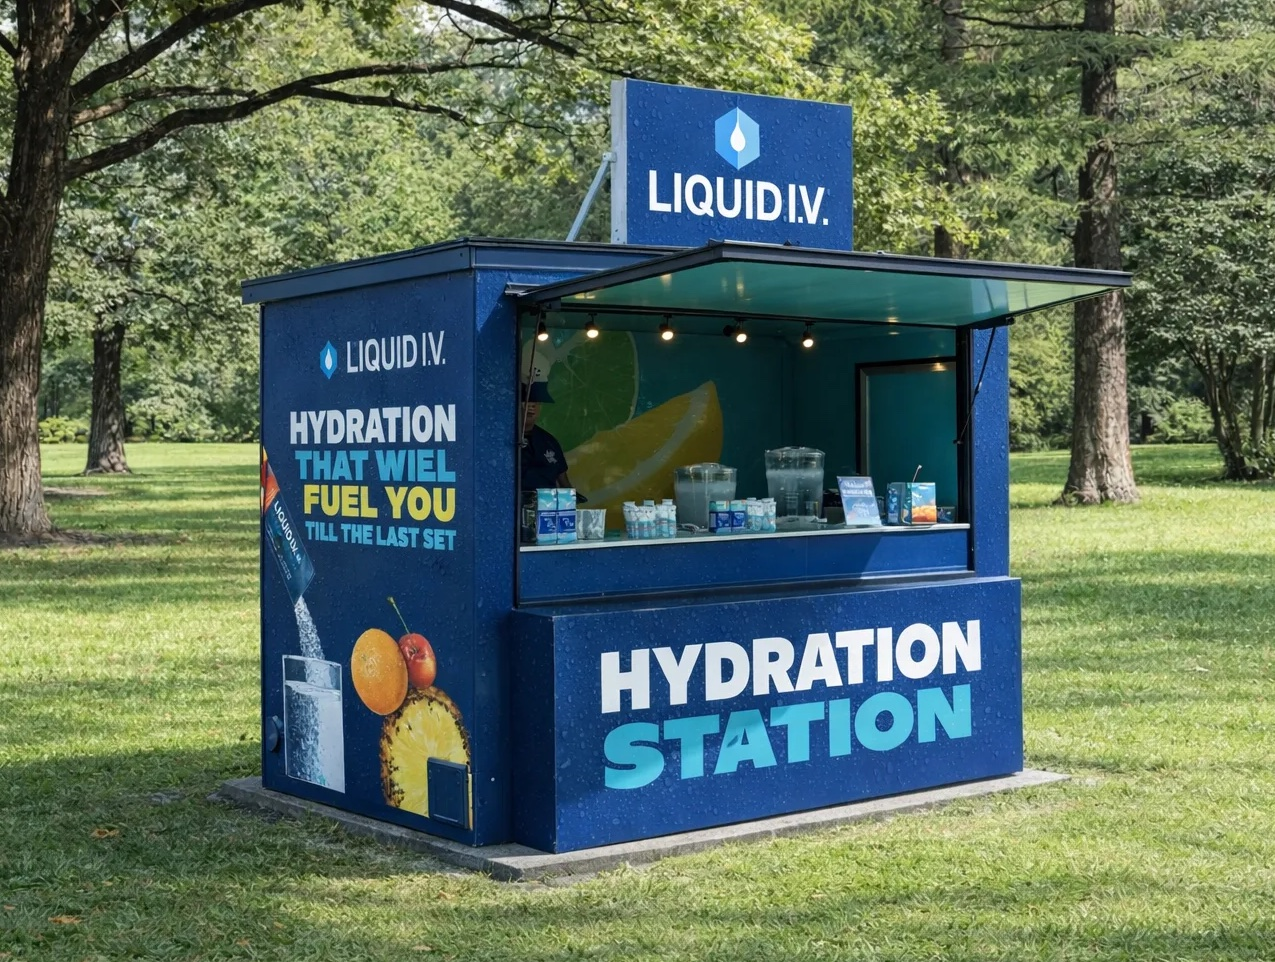
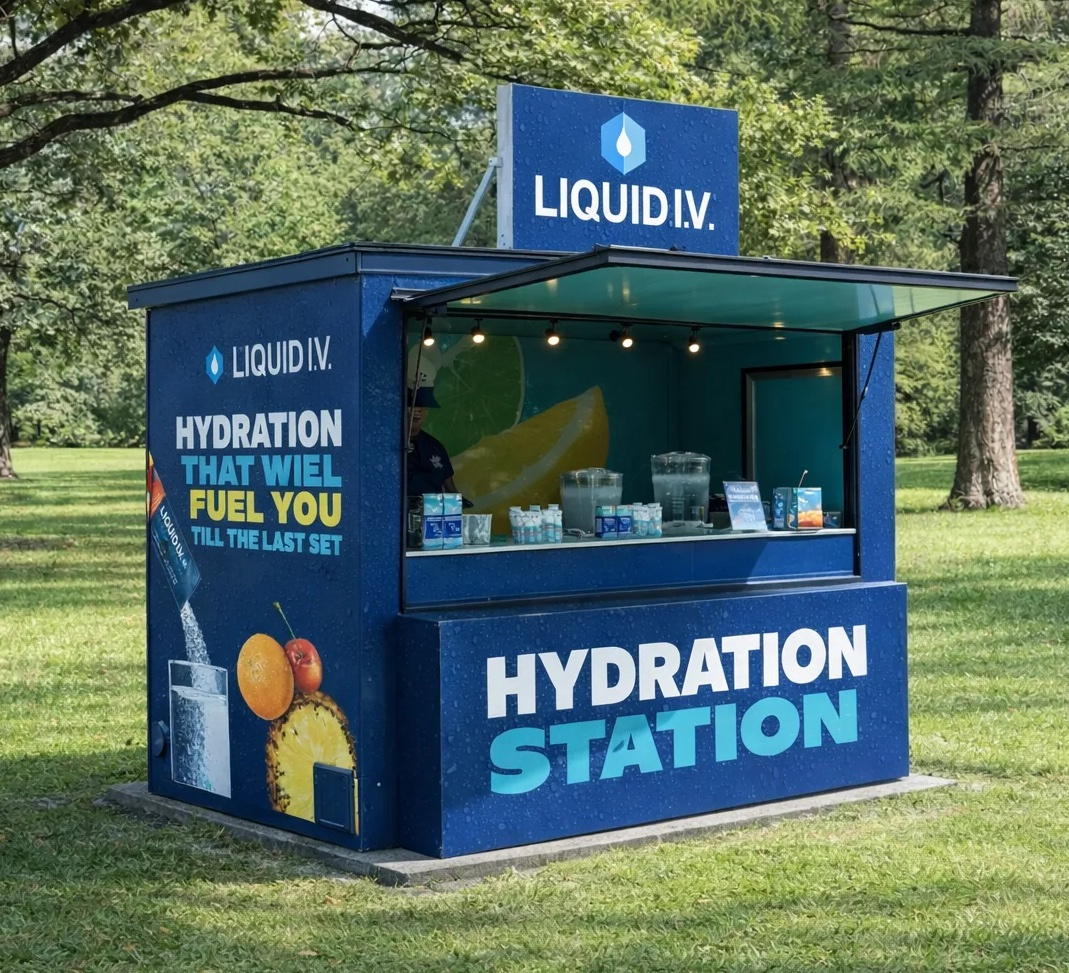
Agency + Client Work: slightly larger tiles, closer crops on the Powerade setup and Liquid I.V. kiosk

diff --git a/agency-client-work.html b/agency-client-work.html
@@ -337,7 +337,7 @@
   }
 
   /* ===== Agency + Client Work: floating tiles ===== */
-  .field { position: relative; transition: height .6s cubic-bezier(.2, .7, .2, 1); height: 175.4vw; margin: 4vw 0 8vw; }
+  .field { position: relative; transition: height .6s cubic-bezier(.2, .7, .2, 1); height: 156.9vw; margin: 4vw 0 8vw; }
   .ft { position: absolute; left: var(--l); top: var(--t); width: var(--w); z-index: 1;
         animation: drift var(--dur) ease-in-out var(--del) infinite alternate; transition: opacity .5s ease, transform .6s cubic-bezier(.2, .7, .2, 1); }
   .ft:hover { z-index: 5; animation-play-state: paused; }
@@ -389,55 +389,55 @@
 
   <!-- Floating tiles: positions and sizes are set in TILES in _build/build.rb -->
   <div class="field">
-<div class="ft" style="--l:5%; --t:4vw; --w:30vw; --h:18.39vw; --ar:1.631; --tone:#c4c4c4; --ox:0%; --cx:0; --cy:1; --dur:6s; --del:-0s; --dx:-8px; --dy:12px">
+<div class="ft" style="--l:4%; --t:4vw; --w:35vw; --h:23.96vw; --ar:1.461; --tone:#c4c4c4; --ox:0%; --cx:0; --cy:1; --dur:6s; --del:-0s; --dx:-8px; --dy:12px">
   <div class="pic" style="background-image:url('images/agency/powerade-tent.jpg')" role="img" aria-label="Powerade Power Water"></div>
   <div class="cap"><b>Powerade Power Water</b><p>Lorem ipsum dolor sit amet, consectetur adipiscing elit. Sed do eiusmod tempor incididunt ut labore et dolore magna aliqua.</p></div>
 </div>
-<div class="ft r" style="--l:64%; --t:2vw; --w:15vw; --h:14.59vw; --ar:1.028; --tone:#bdbdbd; --ox:50%; --cx:-.225; --cy:1; --dur:8s; --del:-3s; --dx:6px; --dy:-10px">
+<div class="ft r" style="--l:58%; --t:0vw; --w:21vw; --h:20.43vw; --ar:1.028; --tone:#bdbdbd; --ox:50%; --cx:-.225; --cy:1; --dur:8s; --del:-3s; --dx:6px; --dy:-10px">
   <div class="pic" style="background-image:url('images/agency/powerade-sign.jpg')" role="img" aria-label="Powerade Power Water"></div>
   <div class="cap"><b>Powerade Power Water</b><p>Lorem ipsum dolor sit amet, consectetur adipiscing elit. Sed do eiusmod tempor incididunt ut labore et dolore magna aliqua.</p></div>
 </div>
-<div class="ft" style="--l:41%; --t:24vw; --w:13vw; --h:19.50vw; --ar:0.667; --tone:#c9c9c9; --ox:50%; --cx:-.225; --cy:1; --dur:10s; --del:-6s; --dx:-5px; --dy:16px">
+<div class="ft" style="--l:40%; --t:34vw; --w:15vw; --h:22.50vw; --ar:0.667; --tone:#c9c9c9; --ox:50%; --cx:-.225; --cy:1; --dur:10s; --del:-6s; --dx:-5px; --dy:16px">
   <div class="pic" style="background-image:url('images/agency/welchs-grape.jpg')" role="img" aria-label="Welch's Real PB&amp;Js"></div>
   <div class="cap"><b>Welch's Real PB&amp;Js</b><p>Lorem ipsum dolor sit amet, consectetur adipiscing elit. Sed do eiusmod tempor incididunt ut labore et dolore magna aliqua.</p></div>
 </div>
-<div class="ft r" style="--l:73%; --t:34vw; --w:13vw; --h:19.50vw; --ar:0.667; --tone:#b8b8b8; --ox:50%; --cx:-.225; --cy:1; --dur:7s; --del:-2s; --dx:9px; --dy:-14px">
+<div class="ft r" style="--l:74%; --t:30vw; --w:15vw; --h:22.50vw; --ar:0.667; --tone:#b8b8b8; --ox:100%; --cx:-.45; --cy:1; --dur:7s; --del:-2s; --dx:9px; --dy:-14px">
   <div class="pic" style="background-image:url('images/agency/welchs-mixed-fruit.jpg')" role="img" aria-label="Welch's Real PB&amp;Js"></div>
   <div class="cap"><b>Welch's Real PB&amp;Js</b><p>Lorem ipsum dolor sit amet, consectetur adipiscing elit. Sed do eiusmod tempor incididunt ut labore et dolore magna aliqua.</p></div>
 </div>
-<div class="ft" style="--l:9%; --t:44vw; --w:13vw; --h:19.50vw; --ar:0.667; --tone:#c4c4c4; --ox:0%; --cx:0; --cy:1; --dur:9s; --del:-5s; --dx:-8px; --dy:12px">
+<div class="ft" style="--l:9%; --t:40vw; --w:15vw; --h:22.50vw; --ar:0.667; --tone:#c4c4c4; --ox:0%; --cx:0; --cy:1; --dur:9s; --del:-5s; --dx:-8px; --dy:12px">
   <div class="pic" style="background-image:url('images/agency/welchs-strawberry.jpg')" role="img" aria-label="Welch's Real PB&amp;Js"></div>
   <div class="cap"><b>Welch's Real PB&amp;Js</b><p>Lorem ipsum dolor sit amet, consectetur adipiscing elit. Sed do eiusmod tempor incididunt ut labore et dolore magna aliqua.</p></div>
 </div>
-<div class="ft" style="--l:31%; --t:60vw; --w:28vw; --h:15.78vw; --ar:1.775; --tone:#bdbdbd; --ox:50%; --cx:-.225; --cy:1; --dur:6s; --del:-1s; --dx:6px; --dy:-10px">
+<div class="ft" style="--l:30%; --t:64vw; --w:32vw; --h:18.03vw; --ar:1.775; --tone:#bdbdbd; --ox:50%; --cx:-.225; --cy:1; --dur:6s; --del:-1s; --dx:6px; --dy:-10px">
   <div class="pic" style="background-image:url('images/agency/tresemme.jpg')" role="img" aria-label="TRESemmé"></div>
   <div class="cap"><b>TRESemmé</b><p>Lorem ipsum dolor sit amet, consectetur adipiscing elit. Sed do eiusmod tempor incididunt ut labore et dolore magna aliqua.</p></div>
 </div>
-<div class="ft r" style="--l:69%; --t:78vw; --w:23vw; --h:17.35vw; --ar:1.325; --tone:#c9c9c9; --ox:100%; --cx:-.45; --cy:1; --dur:8s; --del:-4s; --dx:-5px; --dy:16px">
+<div class="ft r" style="--l:70%; --t:60vw; --w:24vw; --h:21.84vw; --ar:1.099; --tone:#c9c9c9; --ox:100%; --cx:-.45; --cy:1; --dur:8s; --del:-4s; --dx:-5px; --dy:16px">
   <div class="pic" style="background-image:url('images/agency/liquid-iv-kiosk.jpg')" role="img" aria-label="Liquid I.V."></div>
   <div class="cap"><b>Liquid I.V.</b><p>Lorem ipsum dolor sit amet, consectetur adipiscing elit. Sed do eiusmod tempor incididunt ut labore et dolore magna aliqua.</p></div>
 </div>
-<div class="ft" style="--l:5%; --t:90vw; --w:27vw; --h:15.19vw; --ar:1.778; --tone:#b8b8b8; --ox:0%; --cx:0; --cy:1; --dur:10s; --del:-0s; --dx:9px; --dy:-14px">
+<div class="ft" style="--l:4%; --t:88vw; --w:31vw; --h:17.44vw; --ar:1.778; --tone:#b8b8b8; --ox:0%; --cx:0; --cy:1; --dur:10s; --del:-0s; --dx:9px; --dy:-14px">
   <div class="pic" style="background-image:url('images/agency/liquid-iv-headliner.jpg')" role="img" aria-label="Liquid I.V."></div>
   <div class="cap"><b>Liquid I.V.</b><p>Lorem ipsum dolor sit amet, consectetur adipiscing elit. Sed do eiusmod tempor incididunt ut labore et dolore magna aliqua.</p></div>
 </div>
-<div class="ft r" style="--l:39%; --t:106vw; --w:26vw; --h:17.05vw; --ar:1.525; --tone:#c4c4c4; --ox:50%; --cx:-.225; --cy:1; --dur:7s; --del:-3s; --dx:-8px; --dy:12px">
+<div class="ft r" style="--l:44%; --t:92vw; --w:30vw; --h:19.67vw; --ar:1.525; --tone:#c4c4c4; --ox:50%; --cx:-.225; --cy:1; --dur:7s; --del:-3s; --dx:-8px; --dy:12px">
   <div class="pic" style="background-image:url('images/agency/liquid-iv-booth-render.jpg')" role="img" aria-label="Liquid I.V."></div>
   <div class="cap"><b>Liquid I.V.</b><p>Lorem ipsum dolor sit amet, consectetur adipiscing elit. Sed do eiusmod tempor incididunt ut labore et dolore magna aliqua.</p></div>
 </div>
-<div class="ft r" style="--l:74%; --t:114vw; --w:15vw; --h:26.97vw; --ar:0.556; --tone:#bdbdbd; --ox:100%; --cx:-.45; --cy:1; --dur:9s; --del:-6s; --dx:6px; --dy:-10px">
+<div class="ft r" style="--l:80%; --t:90vw; --w:16vw; --h:28.77vw; --ar:0.556; --tone:#bdbdbd; --ox:100%; --cx:-.45; --cy:1; --dur:9s; --del:-6s; --dx:6px; --dy:-10px">
   <div class="pic" style="background-image:url('images/agency/good-company-halloween.jpg')" role="img" aria-label="Good Company Productions"></div>
   <div class="cap"><b>Good Company Productions</b><p>Lorem ipsum dolor sit amet, consectetur adipiscing elit. Sed do eiusmod tempor incididunt ut labore et dolore magna aliqua.</p></div>
 </div>
-<div class="ft" style="--l:8%; --t:130vw; --w:20vw; --h:19.58vw; --ar:1.022; --tone:#c9c9c9; --ox:0%; --cx:0; --cy:1; --dur:6s; --del:-2s; --dx:-5px; --dy:16px">
+<div class="ft" style="--l:8%; --t:116vw; --w:23vw; --h:22.51vw; --ar:1.022; --tone:#c9c9c9; --ox:0%; --cx:0; --cy:1; --dur:6s; --del:-2s; --dx:-5px; --dy:16px">
   <div class="pic" style="background-image:url('images/agency/saturn-character-sides.jpg')" role="img" aria-label="SATurn"></div>
   <div class="cap"><b>SATurn</b><p>Lorem ipsum dolor sit amet, consectetur adipiscing elit. Sed do eiusmod tempor incididunt ut labore et dolore magna aliqua.</p></div>
 </div>
-<div class="ft r" style="--l:42%; --t:140vw; --w:20vw; --h:19.58vw; --ar:1.022; --tone:#b8b8b8; --ox:50%; --cx:-.225; --cy:1; --dur:8s; --del:-5s; --dx:9px; --dy:-14px">
+<div class="ft r" style="--l:40%; --t:122vw; --w:23vw; --h:22.51vw; --ar:1.022; --tone:#b8b8b8; --ox:50%; --cx:-.225; --cy:1; --dur:8s; --del:-5s; --dx:9px; --dy:-14px">
   <div class="pic" style="background-image:url('images/agency/saturn-character-top-bottom.jpg')" role="img" aria-label="SATurn"></div>
   <div class="cap"><b>SATurn</b><p>Lorem ipsum dolor sit amet, consectetur adipiscing elit. Sed do eiusmod tempor incididunt ut labore et dolore magna aliqua.</p></div>
 </div>
-<div class="ft r" style="--l:70%; --t:146vw; --w:24vw; --h:17.40vw; --ar:1.379; --tone:#c4c4c4; --ox:100%; --cx:-.45; --cy:1; --dur:10s; --del:-1s; --dx:-8px; --dy:12px">
+<div class="ft r" style="--l:72%; --t:126vw; --w:26vw; --h:18.85vw; --ar:1.379; --tone:#c4c4c4; --ox:100%; --cx:-.45; --cy:1; --dur:10s; --del:-1s; --dx:-8px; --dy:12px">
   <div class="pic" style="background-image:url('images/agency/cutwater-wristbands.jpg')" role="img" aria-label="Cutwater"></div>
   <div class="cap"><b>Cutwater</b><p>Lorem ipsum dolor sit amet, consectetur adipiscing elit. Sed do eiusmod tempor incididunt ut labore et dolore magna aliqua.</p></div>
 </div>

diff --git a/_build/build.rb b/_build/build.rb
@@ -459,19 +459,19 @@ end
 LOREM = 'Lorem ipsum dolor sit amet, consectetur adipiscing elit. Sed do eiusmod tempor incididunt ut labore et dolore magna aliqua.'
 TILES = [
   # [left %, top vw, width vw, picture (in images/agency), width px, height px, title, description]
-  [ 5,   4, 30, 'powerade-tent.jpg',          1680, 1030, 'Powerade Power Water'],
-  [64,   2, 15, 'powerade-sign.jpg',           740,  720, 'Powerade Power Water'],
-  [41,  24, 13, 'welchs-grape.jpg',            580,  870, "Welch's Real PB&Js"],
-  [73,  34, 13, 'welchs-mixed-fruit.jpg',      580,  870, "Welch's Real PB&Js"],
-  [ 9,  44, 13, 'welchs-strawberry.jpg',       580,  870, "Welch's Real PB&Js"],
-  [31,  60, 28, 'tresemme.jpg',               2000, 1127, 'TRESemmé'],
-  [69,  78, 23, 'liquid-iv-kiosk.jpg',        1275,  962, 'Liquid I.V.'],
-  [ 5,  90, 27, 'liquid-iv-headliner.jpg',    2000, 1125, 'Liquid I.V.'],
-  [39, 106, 26, 'liquid-iv-booth-render.jpg', 1714, 1124, 'Liquid I.V.'],
-  [74, 114, 15, 'good-company-halloween.jpg',  920, 1654, 'Good Company Productions'],
-  [ 8, 130, 20, 'saturn-character-sides.jpg',      1600, 1566, 'SATurn'],
-  [42, 140, 20, 'saturn-character-top-bottom.jpg', 1600, 1566, 'SATurn'],
-  [70, 146, 24, 'cutwater-wristbands.jpg',     1564, 1134, 'Cutwater'],
+  [ 4,   4, 35, 'powerade-tent.jpg',          1544, 1057, 'Powerade Power Water'],
+  [58,   0, 21, 'powerade-sign.jpg',           740,  720, 'Powerade Power Water'],
+  [40,  34, 15, 'welchs-grape.jpg',            580,  870, "Welch's Real PB&Js"],
+  [74,  30, 15, 'welchs-mixed-fruit.jpg',      580,  870, "Welch's Real PB&Js"],
+  [ 9,  40, 15, 'welchs-strawberry.jpg',       580,  870, "Welch's Real PB&Js"],
+  [30,  64, 32, 'tresemme.jpg',               2000, 1127, 'TRESemmé'],
+  [70,  60, 24, 'liquid-iv-kiosk.jpg',        1069,  973, 'Liquid I.V.'],
+  [ 4,  88, 31, 'liquid-iv-headliner.jpg',    2000, 1125, 'Liquid I.V.'],
+  [44,  92, 30, 'liquid-iv-booth-render.jpg', 1714, 1124, 'Liquid I.V.'],
+  [80,  90, 16, 'good-company-halloween.jpg',  920, 1654, 'Good Company Productions'],
+  [ 8, 116, 23, 'saturn-character-sides.jpg',      1600, 1566, 'SATurn'],
+  [40, 122, 23, 'saturn-character-top-bottom.jpg', 1600, 1566, 'SATurn'],
+  [72, 126, 26, 'cutwater-wristbands.jpg',     1564, 1134, 'Cutwater'],
 ]
 TONES = %w[#c4c4c4 #bdbdbd #c9c9c9 #b8b8b8]
 field_h = TILES.map { |l, t, w, _, pw, ph| t + w * ph.to_f / pw }.max + 12
